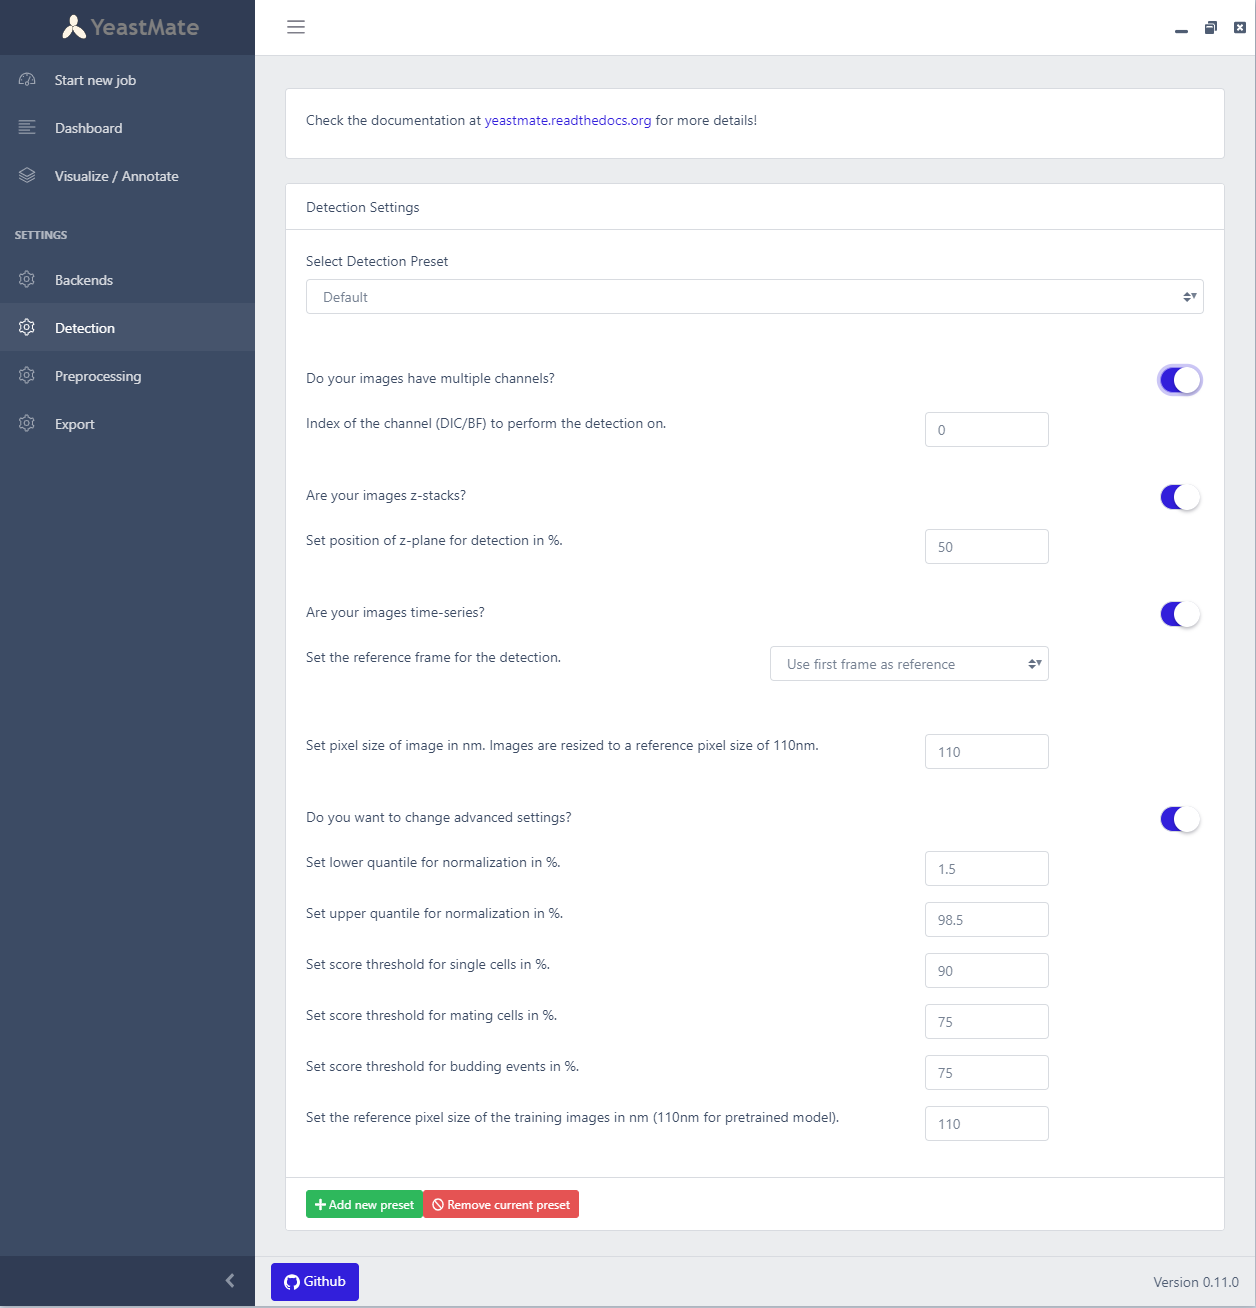
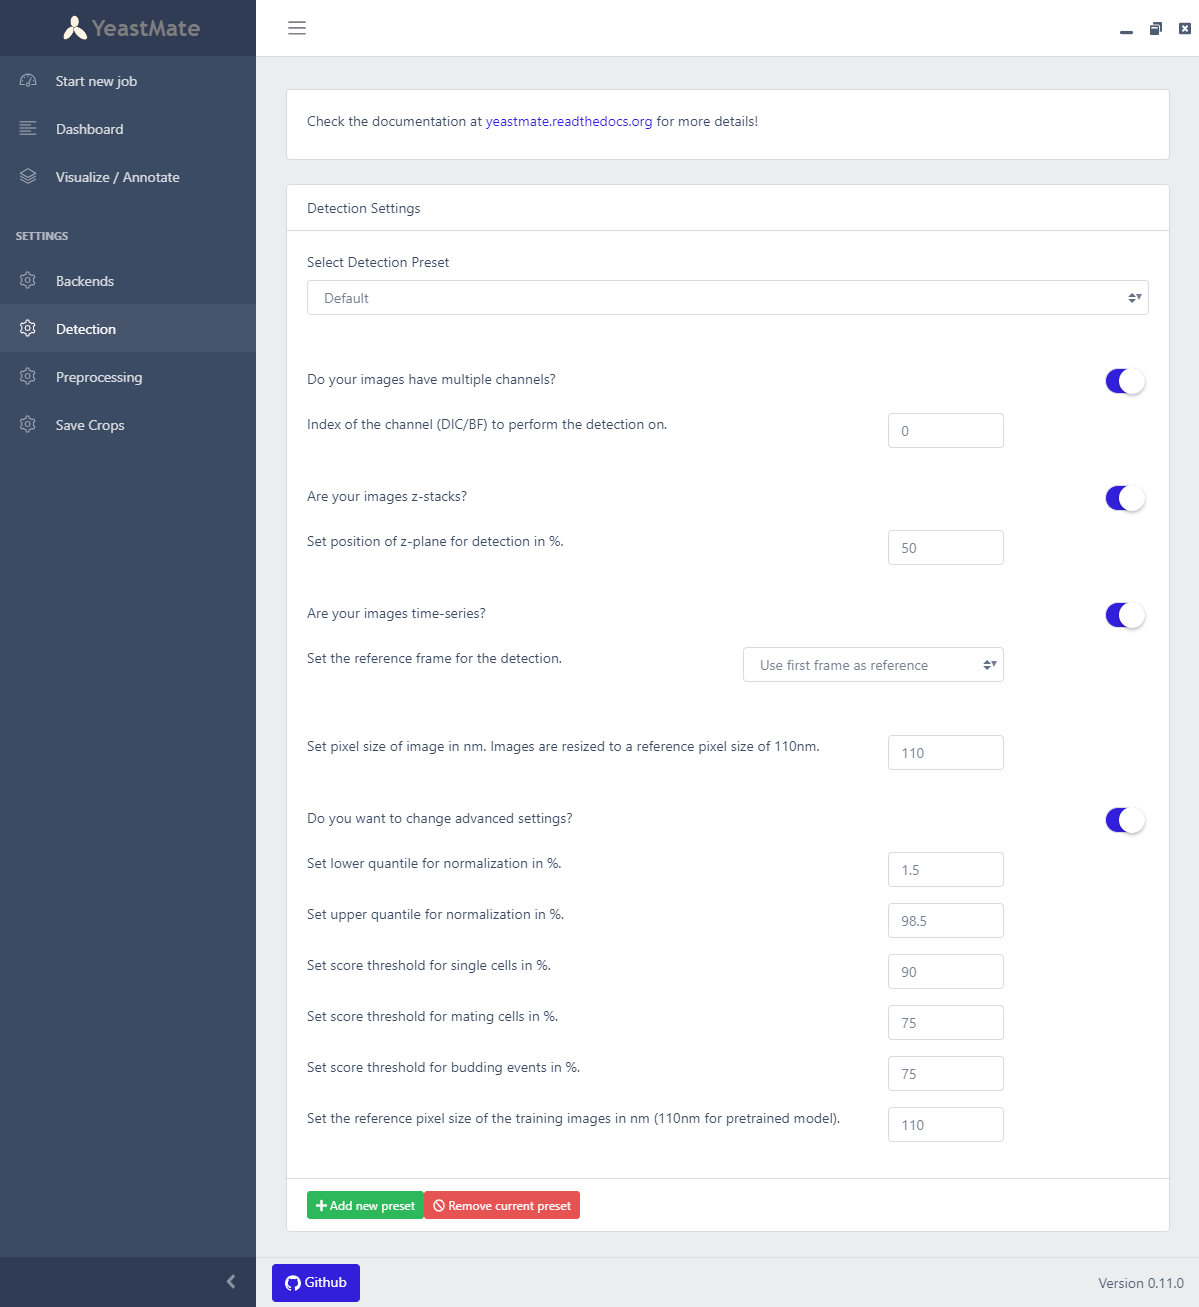
updated docs

diff --git a/docs/gui.md b/docs/gui.md
@@ -1,0 +1,83 @@
+# How to use the YeastMate user interface
+
+## Installing the stand-alone YeastMate application
+
+YeastMate is available with prebuilt installers for Windows, Linux and Mac on [Github](https://github.com/hoerlteam/YeastMate/releases). 
+
+This will install the user interface, the Python data IO backend and the Python detection backend. The backends are packaged with PyInstaller with all their dependencies and don't require a Python installation on your system. Both backends can then be started from within the GUI.
+
+The user interface and the packaged backends were tested on Windows 10, Ubuntu 18.04 and MacOS 11.5.2. If any errors or bugs occure, you can report them on [Github](https://github.com/hoerlteam/YeastMate/issues). 
+
+YeastMate for Windows requires the Microsoft Visual C++ libraries. While these are usually already installed on most systems, you can download them [here](https://www.microsoft.com/en-US/download/details.aspx?id=26368) and [here](https://aka.ms/vs/16/release/vc_redist.x64.exe).
+
+## Uninstalling YeastMate
+
+* On Windows, the cleanest way to remove YeastMate is via the Control Panel under ```Programs > Programs and Features```.
+* On macOS, you can just delete the YeastMate.app application.
+* On Linux, ???
+
+## Get Started
+
+After installing YeastMate, you can get right to processing your images by opening the user interface.
+
+The actual processing of your images happens not within the user interface, but within two additional Python backend applications. While these can also be set up independently by yourself (see [Python - Get Started](./python.md)), already packaged instances of these can be locally started from the user interface. 
+
+The user interface and the two backends communicate via HTTP requests and thus need to listen and send requests over some ports of your system. Depending on your system and firewall you might encounter a warning that YeastMate requests internet access. Unless you specifically tell YeastMate to use the internet to connect to a remote backend, YeastMate will NOT initiate any internet connection, and only communicate locally on your PC via these ports.
+
+On the following pages you will find a status display for the backends with a button to start the backends. These backends are automatically set up to run locally and start on an automatically found free port. Starting the backends will open two additional terminal windows, which will take a moment to initalize and start. A message in those terminal windows as well as the status block in the GUI will indicate when they're running and ready to go.
+
+## Starting a new detection job
+
+The landing page allows you to start the IO and Detection backends and submit new jobs to it.
+
+If you have setup external backends, you can point the GUI to these at the [Backend settings](./settings.md); else you can just start the local backends with the ```Start backends``` button. 
+
+Set the path to the folder directly containing the images you want to detect on (or preprocess them). YeastMate will not look into sub-directories, apart from a folder ```yeastmate-preprocessed`` which will contain the output of the preprocessing step if you use it.
+
+You can also set tags to include or exclude files containing them:
+
+# ![Screenshot](imgs/newjob.png)
+
+## Options
+
+From there on you can select the presets you set on their respective [settings pages](./settings.md) for three different jobs: 
+
+* Detection: The main job which performs inference on your images and save a segmentation mask and additional detection metadata.
+
+* Preprocessing: If your images are not tiff/png/jpeg files, or you need to align your images, you can preprocess your data first, else you can skip this step.
+
+* Export: If you want to further sort your detected objects or crop your images around specific objects, this job will perform additional export tasks.
+
+### Input data format
+
+YeastMate expects the input folder to contain TIFF files or a folder called ```yeastmate-preprocessed``` containing TIFF files. We support multiple channels or timepoints in files, in which case the dimension order should be TZCYX (default for TIFF images saved by ImageJ/Fiji). If the dimension order of your images differs, you can optionally resave them in the correct format via the Preprocessing options.
+
+### Output format
+
+After YeastMate detects cells in your images, it will save the single cell instances segmentation masks as ```[input_file_name]_mask.tif``` as well as asignments of the individual cells to multicellular events in a JSON file called ```[input_file_name]_detections.json```, which has the following format:
+
+```json
+{
+
+}
+```
+
+## Job dashboard
+
+# ![Screenshot](imgs/newjob.png)
+
+This page shows the status of the backends and all currently queued and running tasks.
+
+## Correct and label your images
+
+# ![Screenshot](imgs/annotate.png)
+
+This page allows you to inspect and correct the predicted objects and masks, or to annotate your images from scratch if you want to re-train the neural network from scratch. Given the path containing the images, it will open a separate [napari](https://napari.org) window.
+
+Check [Label your images](./label.md) for more information on labelling your data.
+
+## Retraining the model
+
+You can start a training run of the model on your own data after annotating it like above. This may boost performance of the model on your specific dataset. You need to setup a [Python - Get Started](./python.md), and at least one fast GPU is recommended for acceptable training times.
+
+Check [Train on your data](./train.md) for more information on training on your data.

diff --git a/docs/python.md b/docs/python.md
@@ -1,5 +1,5 @@
 If you want to run GPU-accelerated detection or remote detection, the easiest way is to use our Docker image. For Information on how to install Docker, refer to https://docker.com.
-The Docker image can be found on [Docker hub](https://hub.docker.com/hoerlteam/YeastMate). The image can then be spun into containers and run like any other Docker image. You need to forward the internal docker port 5000 to the port you set in the user interface (default is 5000) so that the container can communicate with the user interface and other backend. If you need GPU inference, you'll also need to give the container GPU access via the ```--gpus all``` flag. To run the detection backend with GPU support, run the following command:
+The Docker image can be found on [Docker hub](https://hub.docker.com/davidbunk/YeastMate). The image can then be spun into containers and run like any other Docker image. You need to forward the internal docker port 5000 to the port you set in the user interface (default is 5000) so that the container can communicate with the user interface and other backend. If you need GPU inference, you'll also need to give the container GPU access via the ```--gpus all``` flag. To run the detection backend with GPU support, run the following command:
 
 ``` bash
 docker run -it -p 5000:5000 --rm --gpus all yeastmate:latest
@@ -22,13 +22,13 @@ docker pull hoerlteam/yeastmate:latest
 You can then start the training container with the following command. Change the source input and output paths to your respective folders.
 
 ``` bash
-docker run -it --shm-size=50G --mount source=YOUR/INPUT/PATH,target=/home/appuser/input,type='bind' --mount source=YOUR/OUTPUT/PATH,target=/home/appuser/output,type='bind' --gpus all hoerlteam/yeastmate:latest
+docker run -it --shm-size=50G --mount source=YOUR/INPUT/PATH,target=/home/appuser/input,type='bind' --mount source=YOUR/OUTPUT/PATH,target=/home/appuser/output,type='bind' --gpus all davidbunk/yeastmate:latest
 ```
 
 If you don't want to expose all of your GPUs, you can select a specific GPU device like this:
 
 ``` bash
-docker run -it --shm-size=50G --mount source=YOUR/INPUT/PATH,target=/home/appuser/input,type='bind' --mount source=YOUR/OUTPUT/PATH,target=/home/appuser/output,type='bind' --gpus '"device=0"' hoerlteam/yeastmate:latest
+docker run -it --shm-size=50G --mount source=YOUR/INPUT/PATH,target=/home/appuser/input,type='bind' --mount source=YOUR/OUTPUT/PATH,target=/home/appuser/output,type='bind' --gpus '"device=0"' davidbunk/yeastmate:latest
 ```
 
 The Docker container automatically starts as root user. To change to a non-root user for training type in:

diff --git a/docs/train.md b/docs/train.md
@@ -13,14 +13,14 @@ The training script expects two folders:
 
 * An output folder where the model weights will be saved in.
 
-The two config files can be found in [YeastMateDetector/yeastmatedetector/configs](https://github.com/hoerlteam/YeastMateDetector/yeastmatedetector/configs), both *yeastmate.yaml* and *yeastmate_advanced.yaml* are required.
+The two config files can be found in [YeastMateDetector/yeastmatedetector/configs](https://github.com/hoerlteam/YeastMate/yeastmatedetector/configs), both *yeastmate.yaml* and *yeastmate_advanced.yaml* are required.
 
 If you want to continue training on existing model weights, add them next to the config files and set their name in **MODEL.WEIGHTS** in *yeastmate.yaml* . 
 
 
 ## Start training within Docker container
 
-Create and run the Docker container as explained in [Prepare environment](./environment.md).
+Create and run the Docker container as explained in [Python - Get Started](./python.md).
 
 You can then start the training process with:
 
@@ -30,9 +30,9 @@ python ./yeastmatedetector/train.py --config=/home/appuser/input/yeastmate.yaml
 
 ## Start training without Docker
 
-You can also run the training scripts without the Docker image. For this you need to setup your Python environment as in [Deploy and Build](./build.md).
+You can also run the training scripts without the Docker image. For this you need to setup your Python environment as in [Python - Get Started](./python.md).
 
-You need to change your input path within [YeastMateDetector/yeastmatedetector/datasets.py](https://github.com/hoerlteam/YeastMateDetector/yeastmatedetector/datasets.py) to your real input folder, and set your real output path in the *yeastmate.yaml* config file, which needs to be in the same folder as *yeastmate_advanced.yaml*. 
+You need to change your input path within [YeastMateDetector/yeastmatedetector/datasets.py](https://github.com/hoerlteam/YeastMate/yeastmatedetector/datasets.py) to your real input folder, and set your real output path in the *yeastmate.yaml* config file, which needs to be in the same folder as *yeastmate_advanced.yaml*. 
 
 From the BioDetectron folder, you can then execute:
 

diff --git a/docs/fiji.md b/docs/fiji.md
@@ -1,1 +1,7 @@
 # How to use the YeastMate Fiji plugin
+
+You can download the Fiji plugin from https://github.com/hoerlteam/FijiYeastMate/releases. Just put the single ```.jar``` file into the ```plugins``` folder of you Fiji installation and YeastMate should appear under ```Plugins->YeastMate``` the next time you start Fiji.
+
+The Fiji plugin requires a running instance of the detection backend. You can start the packaged detection backend from within the GUI or directly start it with the yeastmate_server executable in the YeastMate installation folder in ```resources->python->YeastMate```. 
+
+Alternatively, you can start the detection backend from the command line with ```python yeastmate_server.py``` after setting up the required Python environment as described in .

diff --git a/docs/settings.md b/docs/settings.md
@@ -54,7 +54,9 @@ If you have time stacks, you can set them to be split into separate frame images
 
 If you don't need to align your images, and you already have ImageJ-compatible tif images, you can skip the preprocessing step. 
 
-## Export settings
+## Crop settings
+
+# ![Screenshot](imgs/crop.png)
 
 The detection job saves its results as a segmentation mask and a json file containing additional metadata. This page contains the settings if you wish to crop objects in your images and masks. Cropped masks will only contain labelled cells from the cropped object.
 
